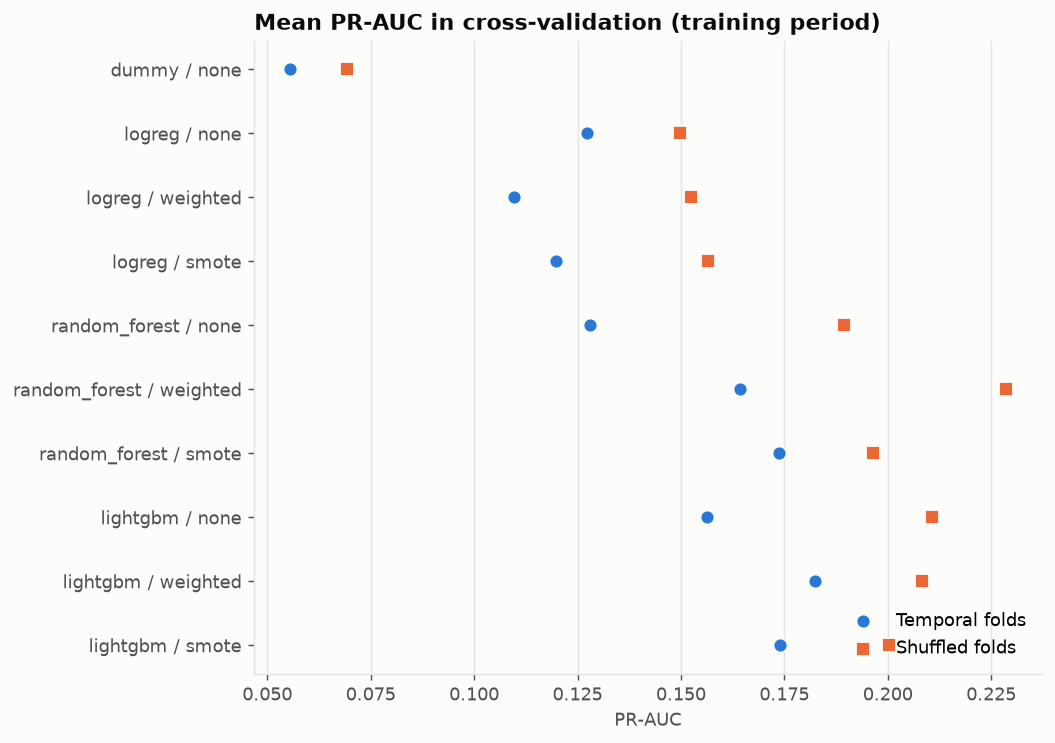
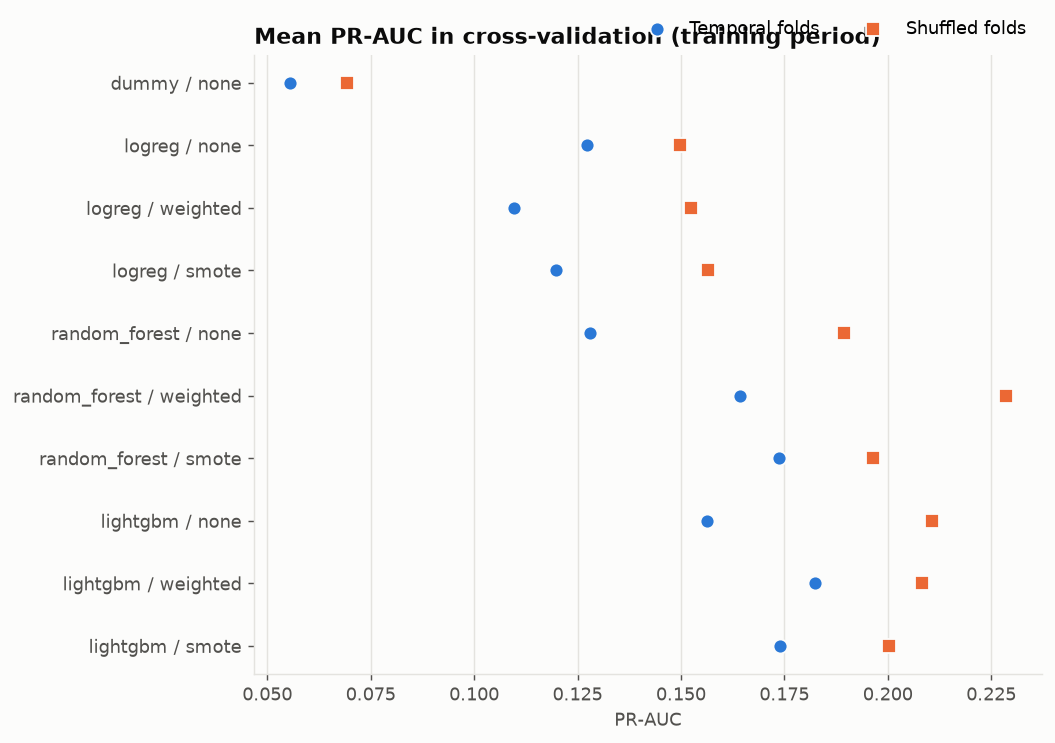
docs: add tuning results and figures from the training period

diff --git a/reports/results.md b/reports/results.md
@@ -16,3 +16,19 @@ Generated by `run_experiments.py`. Do not edit by hand.
 | lightgbm | none | 0.156 | 0.024 | 0.211 | 0.059 |
 | lightgbm | weighted | 0.182 | 0.071 | 0.208 | 0.064 |
 | lightgbm | smote | 0.174 | 0.125 | 0.200 | 0.078 |
+
+## Default vs tuned (out-of-fold, training period)
+
+| model | cv_pr_auc_mean | cv_pr_auc_std | threshold | balanced_accuracy | balanced_error_rate | cost_per_unit | tn | fp | fn | tp |
+|---|---|---|---|---|---|---|---|---|---|---|
+| dummy | 0.056 | 0.035 | 0.139 | 0.631 | 0.369 | 0.481 | 804 | 183 | 32 | 26 |
+| logreg (default) | 0.110 | 0.059 | 0.972 | 0.536 | 0.464 | 0.528 | 955 | 32 | 52 | 6 |
+| logreg (tuned) | 0.139 | 0.056 | 0.647 | 0.532 | 0.468 | 0.528 | 965 | 22 | 53 | 5 |
+| random_forest (default) | 0.164 | 0.151 | 0.271 | 0.625 | 0.375 | 0.493 | 792 | 195 | 32 | 26 |
+| random_forest (tuned) | 0.257 | 0.180 | 0.377 | 0.575 | 0.425 | 0.514 | 880 | 107 | 43 | 15 |
+| lightgbm (default) | 0.182 | 0.071 | 0.247 | 0.563 | 0.437 | 0.497 | 958 | 29 | 49 | 9 |
+| lightgbm (tuned) | 0.238 | 0.165 | 0.433 | 0.623 | 0.377 | 0.477 | 839 | 148 | 35 | 23 |
+
+## Selected by cross-validation
+
+`random_forest (tuned)`
